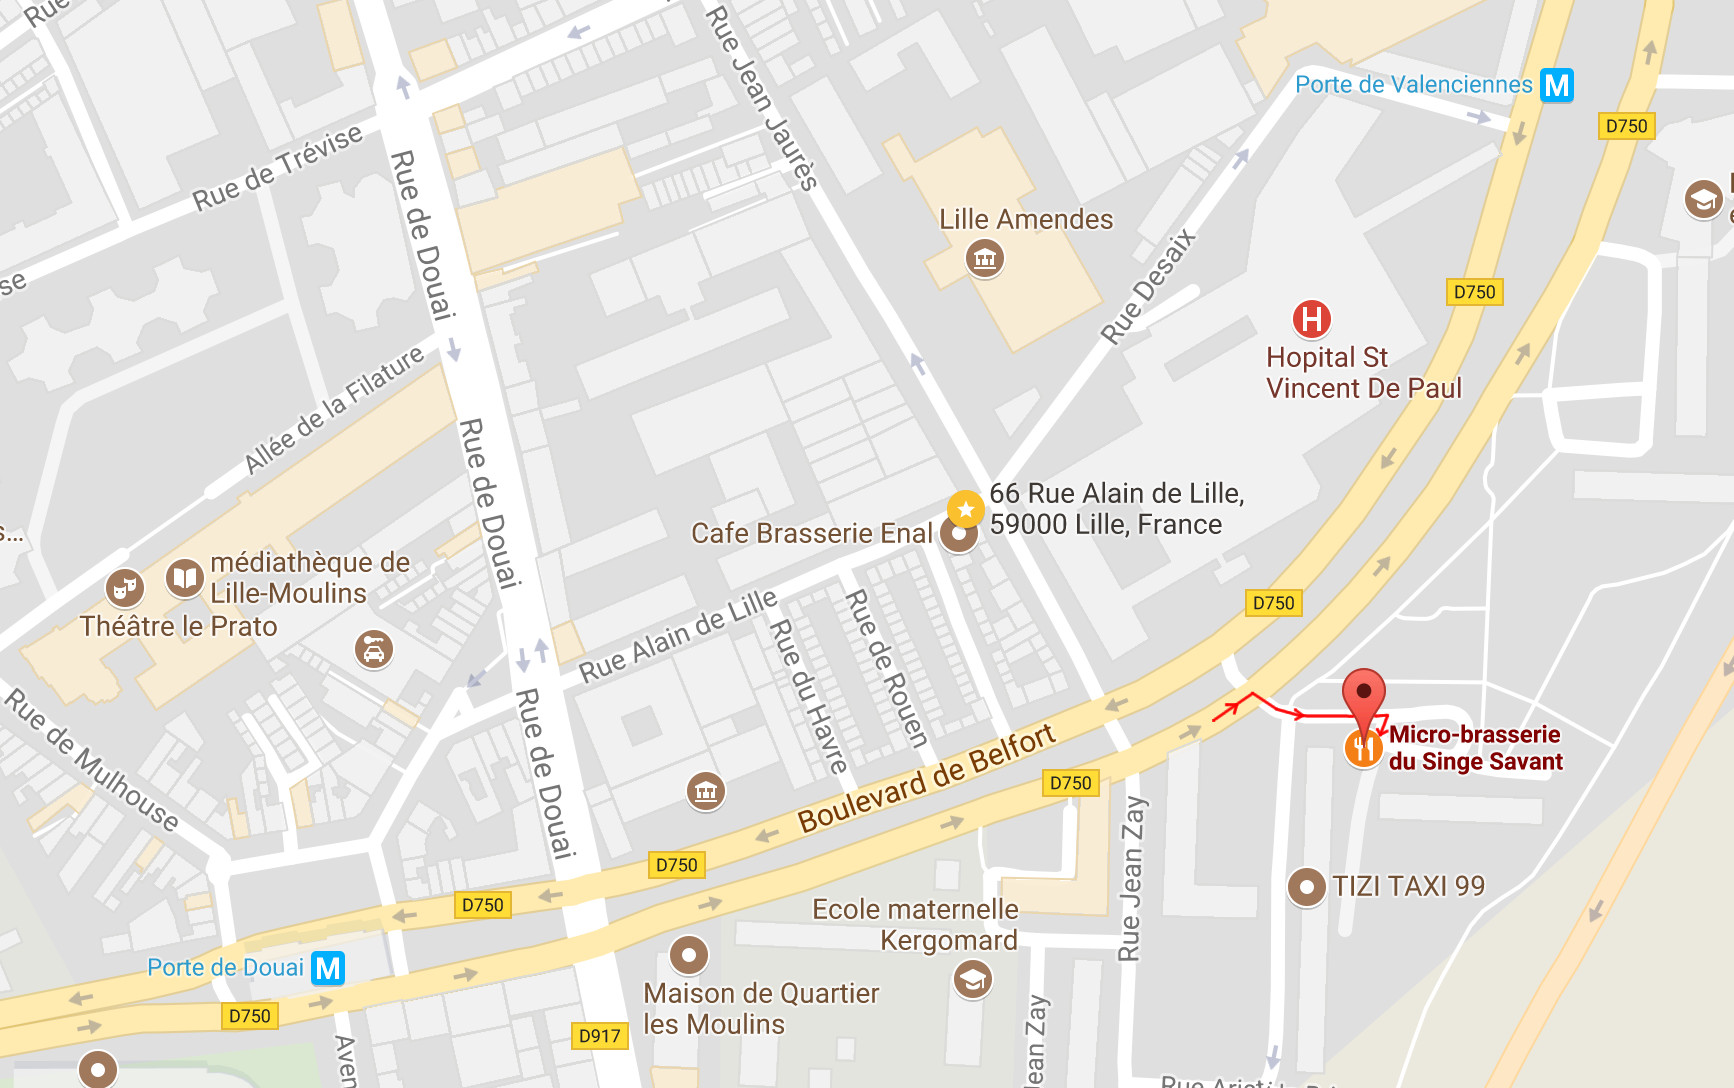
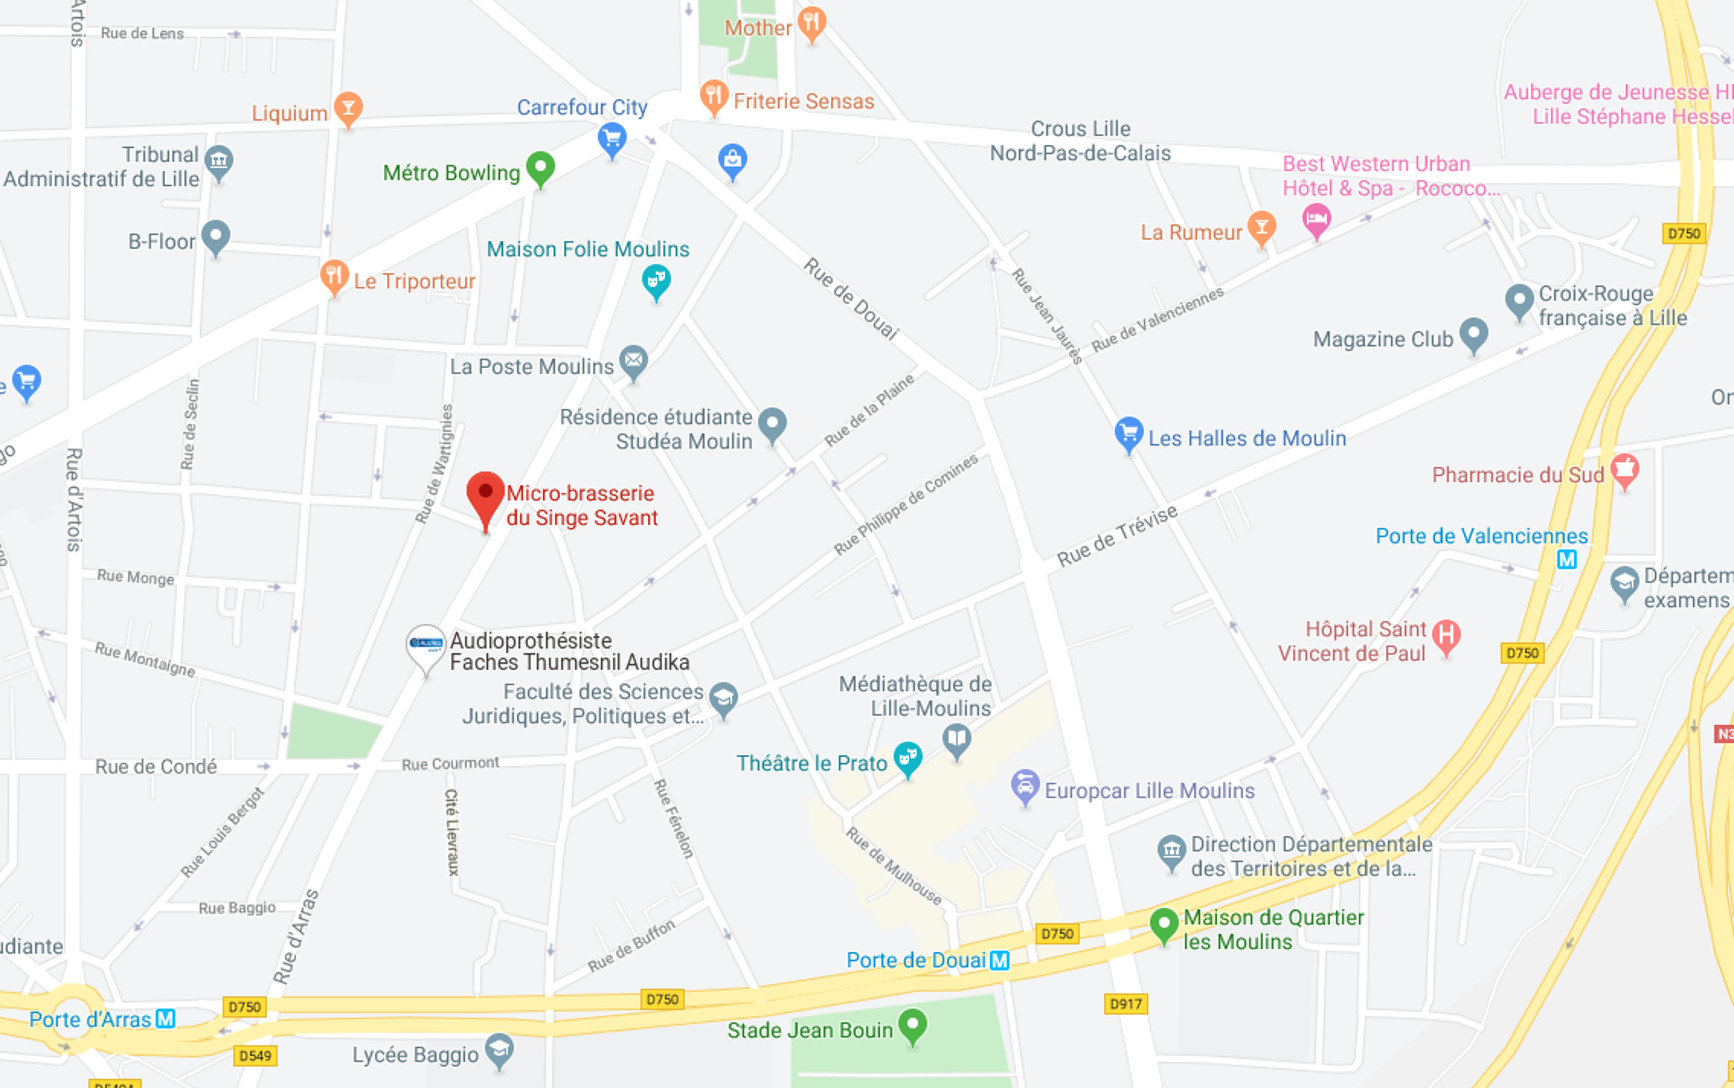
fix wrong html structure, update map

diff --git a/src/components/Come.vue b/src/components/Come.vue
@@ -36,8 +36,11 @@
                 </p>
 
               </b-col>
-
-             
+            </b-row>
+          </b-col>
+        </b-row>
+      </b-col>
+    </b-row>
 
     <monkey-footer/>
 
